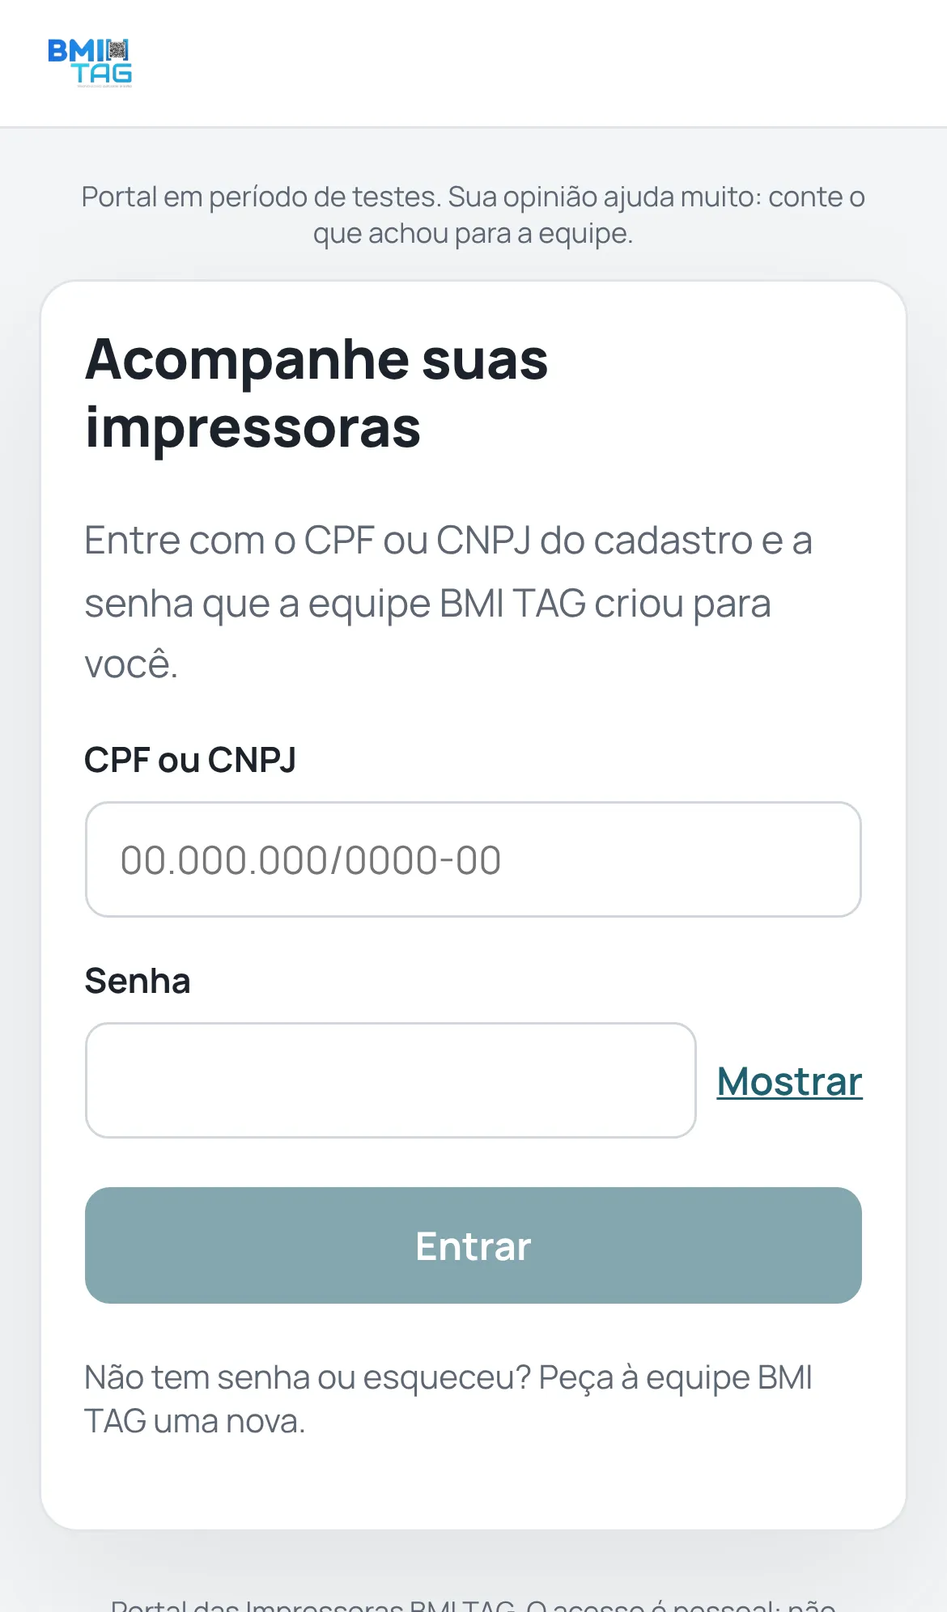
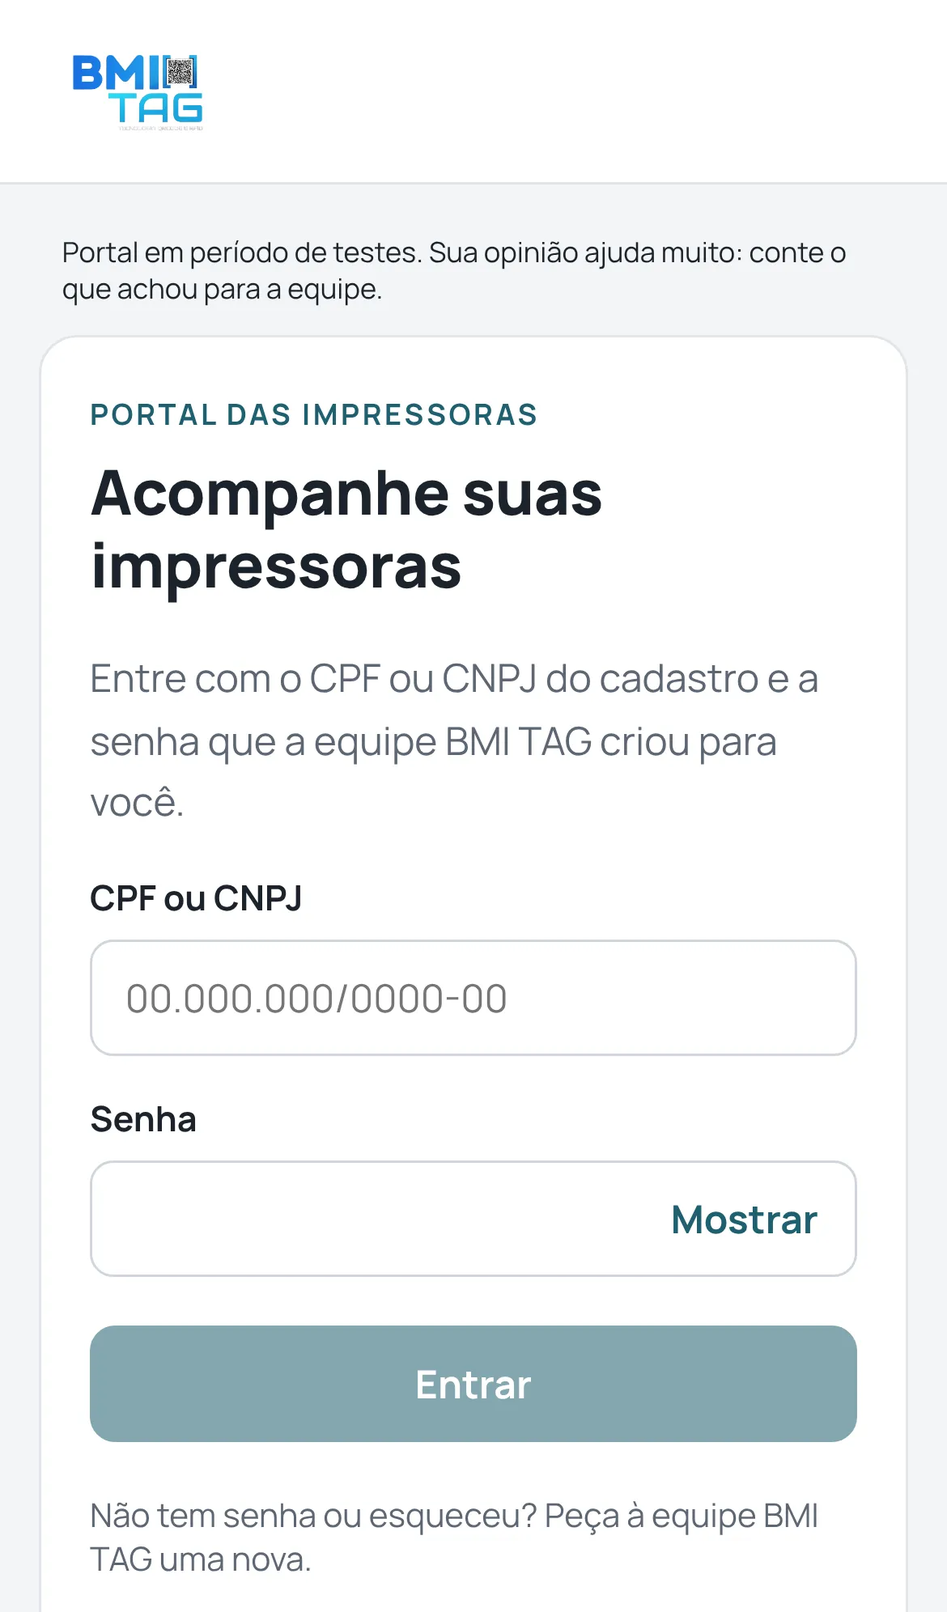
Portal: seguir as pranchetas 09-portal à risca (#213)
* Portal: seguir as pranchetas 09-portal à risca

- Topo com a marca na borda; "Portal das Impressoras" / "Acompanhamento do atendimento" de volta como sobretítulo.
- Entrar: cartão estreito, título forte, "Mostrar" dentro do campo de senha.
- Lista: abas como controle segmentado.
- Etapas concluídas na cor da marca; no celular, seis barras com o nome só da etapa atual (os outros nomes ficam para leitor de tela), sem o resumo "Etapa n de 6"; sai a nota "A etapa atual pode mudar…".
- Orçamento: Aceitar e Recusar lado a lado, total forte, "Solicitar correção" como link.
- Documentos em linhas com "PDF ↓"; contato com WhatsApp em destaque suave e e-mail contornado.
- Painéis de resposta: Voltar/Cancelar à esquerda e a ação à direita; retenção com Voltar e "Recusar mesmo assim" em vermelho; recusa confirmada em vermelho; comprovante com sinal de concluído e "Fechar comprovante" como botão.
- Pronto para retirada: cartão com borda da marca e título "Pronto para retirada" (testes ajustados ao novo nome da região).
- Link sem login: barra no topo, cartão com o status e "Atualizar acompanhamento" fora dele.

Claude-Session: https://claude.ai/code/session_01DaV7KyD8FgGcVZLh5CSD1y

* Portal: tocar na barra da etapa mostra a data no celular

A barra passa para dentro do botão da etapa (antes era do item da lista e o
botão ficava sem altura com o nome escondido). A data aparece num balão
acima das barras. Apontado na revisão.
[…]

diff --git a/src/public-status/portal-ds.css b/src/public-status/portal-ds.css
@@ -76,18 +76,21 @@
 .timeline li, .timeline-step { flex-direction: column; min-height: 0; }
 .timeline-step { width: 100%; }
 @media (max-width: 480px) {
+  /* Prancheta do celular: seis barras e só o nome da etapa atual embaixo. Os outros nomes saem da tela,
+     mas continuam no leitor de tela (são o nome dos botões de data). */
   .timeline ol { gap: 0.25rem; }
-  /* Os nomes ficam sempre visíveis: também são o nome acessível dos botões de data. */
-  /* Seis colunas não cabem: a lista aberta fica vertical, com a barra à esquerda de cada etapa. */
-  .timeline ol { grid-template-columns: 1fr; gap: 0.35rem; margin-top: 0.6rem; }
-  .timeline li { flex-direction: row; flex-wrap: wrap; align-items: center; gap: 0.6rem; font-size: 0.85rem; }
-  .timeline li::before { flex: 0 0 1.5rem; height: 5px; }
-  .timeline li .timeline-step { flex-direction: row; align-items: center; gap: 0.6rem; width: auto; }
-  .timeline li .timeline-when { position: static; width: auto; margin-left: 2.1rem; padding: 0; color: hsl(var(--ink-soft)); background: none; display: none; opacity: 1; visibility: visible; }
-  .timeline li.is-open > .timeline-when { display: block; flex-basis: 100%; }
-  .timeline li.is-deviation { grid-column: auto; margin-top: 0.25rem; }
-  /* Lista aberta: as barras de cima já repetem as de baixo. */
-  .timeline.is-compact.is-open .timeline-compact-bar { display: none; }
+  .timeline li { font-size: 0.72rem; overflow: visible; overflow-wrap: normal; }
+  .timeline li:not(.is-current) .timeline-step > span:not(.timeline-marker),
+  .timeline li:not(.is-current) > span:not(.timeline-marker):not(.timeline-when) {
+    position: absolute; width: 1px; height: 1px; overflow: hidden; clip: rect(0 0 0 0); white-space: nowrap;
+  }
+  /* Atendimento concluído não tem etapa atual: mostra o nome da última. */
+  .timeline.is-concluido li:nth-child(6) .timeline-step > span:not(.timeline-marker),
+  .timeline.is-concluido li:nth-child(6) > span:not(.timeline-marker):not(.timeline-when) {
+    position: static; width: auto; height: auto; overflow: visible; clip: auto; white-space: normal;
+  }
+  .timeline li.is-current { z-index: 1; }
+  .timeline li.is-current > span, .timeline li.is-current .timeline-step > span { min-width: 6rem; }
 }
 
 /* "Etapa registrada em": uma linha discreta, sem caixa. */
@@ -125,7 +128,6 @@
   }
   .portal-quote :is(.confirm-box, .portal-request-box, .sent-box) .action-row { display: grid; grid-template-columns: 1fr 1fr; }
   .portal-quote :is(.confirm-box, .portal-request-box, .sent-box) .action-row > * { flex: none; }
-  .portal-quote .portal-retention .action-row { grid-template-columns: 1fr; }
   /* Com um painel aberto, a barra fixa de decisão sai de cena. */
   .portal-shell:has(.portal-quote :is(.confirm-box, .portal-request-box, .portal-receipt, .portal-request-done)) .portal-decision-bar { display: none; }
 }
@@ -134,3 +136,98 @@
   .portal-quote .confirm-box, .portal-quote .portal-request-box, .portal-quote .sent-box { animation: none; }
 }
 .portal-title { font-weight: 800; letter-spacing: -0.01em; }
+
+/* ─── Ajustes para seguir as pranchetas 09-portal ─── */
+.portal-topbar { padding: 0.6rem 1.5rem; }
+.portal-topbar .status-brand img { height: 3.5rem; max-width: 11rem; }
+.portal-shell .eyebrow, .portal-publico .eyebrow {
+  display: block; margin: 0 0 0.6rem; color: hsl(var(--primary)); font-size: 0.75rem; letter-spacing: 0.1em;
+}
+.portal-shell .status-card.is-detalhe .eyebrow { display: none; }
+.portal-title { margin: 0 0 1rem; font-size: clamp(1.6rem, 3.2vw, 2rem); line-height: 1.15; }
+
+/* Entrar: cartão estreito, aviso alinhado com ele, "Mostrar" dentro do campo. */
+.portal-shell > .status-card.portal-login-card { width: min(100%, 27.5rem); align-self: center; padding: 2.25rem 2.25rem 2rem; box-shadow: none; }
+.portal-shell:has(.portal-login-card) .portal-beta { width: min(100%, 27.5rem); align-self: center; text-align: left; color: hsl(var(--ink)); }
+.portal-password { position: relative; }
+.portal-password .portal-input { padding-right: 5.5rem; }
+.portal-password .link-button { position: absolute; right: 1rem; top: 50%; transform: translateY(-50%); text-decoration: none; font-weight: 700; }
+
+/* Lista: abas como controle segmentado. */
+.portal-tabs { padding: 0.2rem; border: 1px solid hsl(var(--line)); background: hsl(var(--surface)); }
+.portal-tabs button { min-height: 2.25rem; font-size: 0.92rem; }
+.portal-tabs button.is-active { color: hsl(var(--primary)); background: hsl(var(--acc-soft)); box-shadow: none; }
+.portal-item-name { font-weight: 600; font-size: 1.08rem; }
+.portal-badge.is-muted { justify-self: start; padding: 0.25rem 0.7rem; border-radius: 999px; background: hsl(var(--soft)); color: hsl(var(--ink-soft)); font-weight: 700; font-size: 0.82rem; }
+
+/* Etapas concluídas na cor da marca; a atual na cor da situação. */
+.timeline li.is-complete::before { background: hsl(var(--primary)); }
+
+/* Orçamento: itens em destaque, total forte, Aceitar e Recusar lado a lado, correção como link. */
+.portal-quote .quote-line > span:first-child { font-weight: 600; color: hsl(var(--ink)); }
+.portal-quote .quote-total span, .portal-quote .quote-total strong { font-size: 1.3rem; font-weight: 800; color: hsl(var(--ink)); }
+.portal-inline-decision { grid-template-columns: 1fr 1fr; }
+.portal-solicitar { justify-self: center; font-weight: 700; text-decoration: none; }
+.action-stack { display: grid; gap: 0.75rem; }
+
+/* Documentos: linhas com "PDF ↓" à direita. */
+.portal-documentos { margin-top: 0; }
+.portal-documentos h3 { margin-bottom: 0.75rem; font-size: 1.15rem; }
+.portal-documentos ul { display: grid; gap: 0.6rem; }
+.portal-doc-linha {
+  display: flex; width: 100%; justify-content: space-between; align-items: center; gap: 1rem;
+  border: 0; background: hsl(var(--soft)); text-align: left;
+}
+.portal-doc-baixar { flex: 0 0 auto; color: hsl(var(--primary)); font-weight: 700; }
+
+/* Contato: WhatsApp em destaque suave, e-mail e telefone contornados. */
+.contact-card ul { gap: 0.6rem; }
+.contact-card a.secondary-button { min-height: 2.5rem; padding: 0.45rem 1rem; color: hsl(var(--ink)); text-decoration: none; overflow-wrap: anywhere; }
+.contact-card a.portal-contato-whats { border-color: transparent; color: hsl(var(--primary)); background: hsl(var(--acc-soft)); }
+
+/* Respostas: recusar em vermelho, WhatsApp suave na retenção, comprovante com o sinal de concluído. */
+.primary-button.portal-perigo { background: hsl(var(--st-bad)); }
+.portal-whats-suave { display: flex; width: 100%; margin: 0.75rem 0; border-color: transparent; color: hsl(var(--primary)); background: hsl(var(--acc-soft)); }
+.portal-retention .action-row { display: grid; grid-template-columns: 1fr 1fr; gap: 0.6rem; }
+.portal-receipt-ok {
+  display: grid; place-items: center; width: 2.5rem; height: 2.5rem; margin-bottom: 0.75rem;
+  border-radius: 0.6rem; color: hsl(var(--st-ok)); background: hsl(var(--st-ok-bg)); font-weight: 800;
+}
+.portal-quote .sent-box.portal-receipt strong { display: block; color: hsl(var(--ink)); font-size: 1.15rem; }
+.portal-quote .sent-box.portal-receipt { color: hsl(var(--ink)); }
+
+/* Link de acompanhamento sem login: cartão estreito, botão fora dele. */
+.portal-publico { width: min(100% - 2rem, 34rem); padding-top: 0; }
+.status-card.is-publico { padding: 0; border: 0; background: none; box-shadow: none; }
+.portal-atualizar { width: 100%; margin-top: 1rem; }
+.portal-publico .status-footer { text-align: left; }
+
+@media (max-width: 640px) {
+  .portal-shell > .status-card.portal-login-card { padding: 1.4rem 1.25rem; }
+  .portal-quote .sent-box.portal-receipt > .portal-full { margin-top: 0.75rem; }
+}
+.portal-pagina .notice-box { font-weight: 600; }
+.portal-detail-side > .portal-destaque.is-pronto { border: 2px solid hsl(var(--primary)); }
+.portal-destaque.is-pronto h2 { margin: 0 0 0.75rem; color: hsl(var(--ink)); font-size: 1.25rem; }
+.contact-card .answer-hint { margin-top: 0.6rem; }
+
+/* A barra fica dentro do botão da etapa quando há data: tocar na barra mostra a data, inclusive no celular. */
+.timeline li:has(> .timeline-step)::before { display: none; }
+.timeline-step::before { content: ""; display: block; height: 5px; border-radius: 999px; background: hsl(var(--track)); }
+.timeline li.is-complete .timeline-step::before { background: hsl(var(--primary)); }
+.timeline li.is-current .timeline-step::before { background: var(--stage-color); }
+@media (max-width: 480px) {
+  .timeline-step { min-height: 1.75rem; }
+}
+@media (max-width: 480px) {
+  /* Data da etapa: balão escuro logo abaixo das barras, sem espremer na coluna. */
+  .timeline li .timeline-when,
+  .timeline li:has(.timeline-when) .timeline-when {
+    position: absolute; z-index: 5; top: auto; bottom: calc(100% + 0.35rem); left: 0; right: auto; transform: none;
+    display: block; width: max-content; max-width: 14rem; margin: 0; padding: 0.4rem 0.55rem;
+    border-radius: 0.45rem; color: hsl(var(--surface)); background: hsl(var(--ink));
+    font-weight: 600; white-space: nowrap; opacity: 0; visibility: hidden;
+  }
+  .timeline li:nth-child(n+4) .timeline-when { left: auto; right: 0; }
+  .timeline li.is-open > .timeline-when { opacity: 1; visibility: visible; }
+}

diff --git a/src/public-status/PortalOrcamento.tsx b/src/public-status/PortalOrcamento.tsx
@@ -410,6 +410,7 @@ export default function PortalOrcamento({ session, detalhe, orcamento, recarrega
 
       {comprovante && (
         <div className={`sent-box portal-receipt${comprovante.decisao === "RECUSAR" ? " is-recusa" : ""}`} role="status">
+          <span className="portal-receipt-ok" aria-hidden="true">✓</span>
           <strong>Resposta registrada no AutoOS</strong>
           <p>
             {ROTULO_DECISAO[comprovante.decisao]} — {comprovante.equipamento}{comprovante.serie ? ` (série ${comprovante.serie})` : ""},
@@ -419,7 +420,7 @@ export default function PortalOrcamento({ session, detalhe, orcamento, recarrega
           {comprovante.ordemCompra && <p>Ordem de compra: <strong>{comprovante.ordemCompra}</strong></p>}
           <p>A equipe já foi avisada; enviar a mensagem abaixo é opcional. Efetivação às {shortTime(comprovante.janelaAte)}.</p>
           {textoComprovante && <MensagemPronta whatsapp={whatsapp} texto={textoComprovante} />}
-          <button className="link-button" type="button" onClick={() => setComprovante(null)}>Fechar comprovante</button>
+          <button className="primary-button portal-full" type="button" onClick={() => setComprovante(null)}>Fechar comprovante</button>
         </div>
       )}
 
@@ -427,14 +428,15 @@ export default function PortalOrcamento({ session, detalhe, orcamento, recarrega
         <div className="confirm-box portal-retention" ref={caixaEtapa} role="group" aria-labelledby="portal-retention-title">
           <h2 id="portal-retention-title">Tem certeza que quer recusar?</h2>
           <p>Qualquer dúvida, entre em contato conosco.</p>
+          {whatsapp && (
+            <a className="secondary-button portal-link-button portal-whats-suave" href={whatsappUrl(whatsapp, textoConversa)} target="_blank" rel="noopener noreferrer">
+              Falar com a equipe no WhatsApp
+            </a>
+          )}
           <div className="action-row portal-retention-actions">
-            {whatsapp && (
-              <a className="secondary-button portal-link-button" href={whatsappUrl(whatsapp, textoConversa)} target="_blank" rel="noopener noreferrer">
-                Falar com a equipe no WhatsApp
-              </a>
-            )}
+            <button className="secondary-button" type="button" onClick={() => setEtapa(null)}>Voltar</button>
+            <button className="primary-button portal-perigo" type="button" onClick={() => prosseguir("RECUSAR")}>Recusar mesmo assim</button>
           </div>
-          <button className="link-button portal-refuse-anyway" type="button" onClick={() => prosseguir("RECUSAR")}>Recusar mesmo assim</button>
         </div>
       )}
 
@@ -448,8 +450,8 @@ export default function PortalOrcamento({ session, detalhe, orcamento, recarrega
               maxLength={72} value={senha} onChange={(event) => setSenha(event.target.value)} autoFocus />
             {erro && <p className="portal-error" role="alert">{erro}</p>}
             <div className="action-row">
-              <button className="primary-button" type="submit" disabled={busy || !senha}>{busy ? "Conferindo…" : "Confirmar senha"}</button>
               <button className="secondary-button" type="button" disabled={busy} onClick={() => setEtapa(null)}>Cancelar</button>
+              <button className="primary-button" type="submit" disabled={busy || !senha}>{busy ? "Conferindo…" : "Confirmar senha"}</button>
             </div>
           </form>
         </div>
@@ -481,10 +483,10 @@ export default function PortalOrcamento({ session, detalhe, orcamento, recarrega
           {etapa.decisao === "DESFEITA" && <p className="answer-hint">O orçamento volta a aguardar resposta.</p>}
           {erro && <p className="portal-error" role="alert">{erro}</p>}
           <div className="action-row">
-            <button className="primary-button" type="button" disabled={busy} onClick={() => void responder()}>
+            <button className="secondary-button" type="button" disabled={busy} onClick={() => setEtapa(null)}>Voltar</button>
+            <button className={`primary-button${etapa.decisao === "RECUSAR" ? " portal-perigo" : ""}`} type="button" disabled={busy} onClick={() => void responder()}>
               {busy ? "Registrando…" : etapa.decisao === "APROVAR" ? "Confirmar aceite" : etapa.decisao === "RECUSAR" ? "Confirmar recusa" : "Cancelar resposta"}
             </button>
-            <button className="secondary-button" type="button" disabled={busy} onClick={() => setEtapa(null)}>Voltar</button>
           </div>
         </div>
       )}
@@ -524,11 +526,11 @@ export default function PortalOrcamento({ session, detalhe, orcamento, recarrega
           )}
           {erro && <p className="portal-error" role="alert">{erro}</p>}
           <div className="action-row">
+            <button className="secondary-button" type="button" disabled={busy} onClick={() => setEtapa(null)}>Voltar</button>
             <button className="primary-button" type="button" disabled={busy || mensagem.trim().length === 0}
               onClick={() => void solicitar("MUDANCA")}>
               {busy ? "Registrando…" : "Solicitar correção"}
             </button>
-            <button className="secondary-button" type="button" disabled={busy} onClick={() => setEtapa(null)}>Voltar</button>
           </div>
         </div>
       )}
@@ -560,7 +562,7 @@ export default function PortalOrcamento({ session, detalhe, orcamento, recarrega
             </button>
           )}
           {detalhe.podeDecidir && respostaAtiva?.estado === "EFETIVADA" && (
-            <button className="secondary-button" type="button" onClick={() => abrirSolicitacao("corrigir")}>Solicitar correção</button>
+            <button className="link-button portal-solicitar" type="button" onClick={() => abrirSolicitacao("corrigir")}>Solicitar correção</button>
           )}
         </div>
       )}

diff --git a/src/public-status/PortalDetalhe.tsx b/src/public-status/PortalDetalhe.tsx
@@ -120,7 +120,6 @@ export default function PortalDetalhe({ session, equipamentoId, onExpirou }: Pro
                   titulo={preparando ? TITULO_EM_PREPARACAO : data.titulo}
                   orientacao={preparando ? ORIENTACAO_EM_PREPARACAO : data.orientacao}
                   statusAlteradoEm={data.statusAlteradoEm}
-                  compacto
                   etapas={data.etapas}
                   concluido={concluido}
                   identificacao={(data.serie || data.patrimonio || data.entradaEm) && (
@@ -185,13 +184,13 @@ function ContatoCard({ contato }: { contato: ContatoEmpresa | null }) {
       <ul>
         {contato.whatsapp && (
           <li>
-            <a href={`https://wa.me/${whatsappDigits.startsWith("55") && whatsappDigits.length >= 12 ? whatsappDigits : `55${whatsappDigits}`}`} target="_blank" rel="noopener noreferrer">
+            <a className="secondary-button portal-contato-whats" href={`https://wa.me/${whatsappDigits.startsWith("55") && whatsappDigits.length >= 12 ? whatsappDigits : `55${whatsappDigits}`}`} target="_blank" rel="noopener noreferrer">
               WhatsApp
             </a>
           </li>
         )}
-        {contato.email && <li><a href={`mailto:${contato.email}`}>{contato.email}</a></li>}
-        {contato.telefone && <li><a href={`tel:${contato.telefone.replace(/[^\d+]/g, "")}`}>{contato.telefone}</a></li>}
+        {contato.email && <li><a className="secondary-button" href={`mailto:${contato.email}`}>{contato.email}</a></li>}
+        {contato.telefone && <li><a className="secondary-button" href={`tel:${contato.telefone.replace(/[^\d+]/g, "")}`}>{contato.telefone}</a></li>}
       </ul>
       {contato.horario && <p className="answer-hint">{contato.horario}</p>}
     </div>

diff --git a/src/public-status/PortalDetalhe.test.tsx b/src/public-status/PortalDetalhe.test.tsx
@@ -205,7 +205,7 @@ describe("pronto para retirada", () => {
 
   it("mostra endereço, mapa embutido, botão do Google Maps e o valor", async () => {
     await abrir(pronto());
-    const secao = screen.getByRole("region", { name: "Retire no endereço abaixo" });
+    const secao = screen.getByRole("region", { name: "Pronto para retirada" });
     expect(within(secao).getByText(ENDERECO)).toBeInTheDocument();
     expect(within(secao).getByText(/R\$\s*350,00/)).toBeInTheDocument();
     const mapa = within(secao).getByTitle(`Mapa: ${ENDERECO}`);
@@ -222,7 +222,7 @@ describe("pronto para retirada", () => {
     await abrir(pronto({ contatoEmpresa: null }));
     expect(screen.queryByTitle(/^Mapa/)).toBeNull();
     expect(screen.queryByRole("link", { name: "Abrir no Google Maps" })).toBeNull();
-    expect(screen.getByRole("region", { name: "Seu equipamento está pronto" })).toHaveTextContent(/R\$\s*350,00/);
+    expect(screen.getByRole("region", { name: "Pronto para retirada" })).toHaveTextContent(/R\$\s*350,00/);
   });
 });
 
@@ -269,7 +269,7 @@ describe("Pronto com valor atualizado", () => {
     await abrir(detalhe({
       status: "PRONTO", titulo: "Pronto para retirada", orcamento: orcamento({ estado: "ENCERRADA" }), valores: { orcamento: 350, final: null, atual: 400 },
     }));
-    const destaque = screen.getByRole("region", { name: "Seu equipamento está pronto" });
+    const destaque = screen.getByRole("region", { name: "Pronto para retirada" });
     expect(destaque.textContent?.match(/R\$\s*400,00/g)).toHaveLength(1);
     expect(destaque).toHaveTextContent(/orçamento aprovado: R\$\s*350,00/);
     expect(document.querySelector(".portal-valor-linha")).toHaveTextContent(/R\$\s*400,00/);

diff --git a/src/public-status/PortalDestaques.tsx b/src/public-status/PortalDestaques.tsx
@@ -40,8 +40,7 @@ export function DestaqueProntoRetirada({ detalhe }: { detalhe: DetalheAtendiment
   const atualizado = valorAtualizado(detalhe);
   return (
     <section className="portal-destaque is-pronto" aria-labelledby="portal-pronto-titulo">
-      <span className="portal-destaque-pill">Pronto para retirada</span>
-      <h2 id="portal-pronto-titulo">{endereco ? "Retire no endereço abaixo" : "Seu equipamento está pronto"}</h2>
+      <h2 id="portal-pronto-titulo">Pronto para retirada</h2>
       {valor != null && (
         <p className="portal-destaque-valor"><span>Valor do atendimento</span><strong>{money(valor)}</strong></p>
       )}
@@ -104,8 +103,9 @@ export function DocumentosCard({ detalhe, sessao, destaque = false }: { detalhe:
       <ul>
         {docs.map((doc) => (
           <li key={doc.chave}>
-            <button type="button" className={destaque ? "primary-button" : "secondary-button"} disabled={gerando !== null} onClick={() => void baixar(doc)}>
+            <button type="button" className={destaque ? "primary-button" : "secondary-button portal-doc-linha"} disabled={gerando !== null} onClick={() => void baixar(doc)}>
               {gerando === doc.chave ? "Baixando…" : doc.rotulo}
+              {!destaque && <span className="portal-doc-baixar" aria-hidden="true">PDF ↓</span>}
             </button>
           </li>
         ))}

diff --git a/src/public-status/PublicStatusPage.tsx b/src/public-status/PublicStatusPage.tsx
@@ -74,10 +74,11 @@ export default function PublicStatusPage() {
       : { title: "Este acompanhamento não está disponível", description: "Confira se o link está correto ou fale com a equipe BMI TAG pelo canal em que recebeu o link." };
 
   return (
-    <main className="status-shell">
-      <StatusBrand />
+    <main className="status-shell portal-publico">
+      <div className="portal-topbar"><StatusBrand /></div>
 
-      <section className="status-card" aria-live="polite">
+      <section className="status-card is-publico" aria-live="polite">
+        <div className="portal-cartao">
         <p className="eyebrow">Acompanhamento do atendimento</p>
 
         {loading && (
@@ -114,11 +115,14 @@ export default function PublicStatusPage() {
                 />
               </section>
             )}
-
-            <button className="refresh-button" type="button" onClick={() => void loadStatus()}>
-              Atualizar acompanhamento
-            </button>
           </>
+        )}
+        </div>
+
+        {!loading && !error && data && (
+          <button className="secondary-button portal-full portal-atualizar" type="button" onClick={() => void loadStatus()}>
+            Atualizar acompanhamento
+          </button>
         )}
 
         {checkedAt && !loading && !error && (

diff --git a/src/public-status/PortalApp.test.tsx b/src/public-status/PortalApp.test.tsx
@@ -453,7 +453,7 @@ describe("painel do orçamento (ticket T4)", () => {
     expect(screen.getByText("Qualquer dúvida, entre em contato conosco.")).toBeInTheDocument();
     const grupo = screen.getByRole("group", { name: "Tem certeza que quer recusar?" });
     const acoes = Array.from(grupo.querySelectorAll("button, a")).map((el) => el.textContent);
-    expect(acoes).toEqual(["Falar com a equipe no WhatsApp", "Recusar mesmo assim"]);
+    expect(acoes).toEqual(["Falar com a equipe no WhatsApp", "Voltar", "Recusar mesmo assim"]);
     const link = screen.getByRole("link", { name: "Falar com a equipe no WhatsApp" });
     expect(decodeURIComponent(link.getAttribute("href") ?? "")).toContain("CNPJ 11.222.333/0001-81");
     expect(api.responder).not.toHaveBeenCalled();

diff --git a/src/public-status/StatusView.tsx b/src/public-status/StatusView.tsx
@@ -160,7 +160,6 @@ export function StatusView({ equipamento, titulo, orientacao, statusAlteradoEm, 
               </li>
             )}
           </ol>
-          <p className="timeline-note">A etapa atual pode mudar após uma revisão do atendimento.</p>
         </nav>
       )}
 
